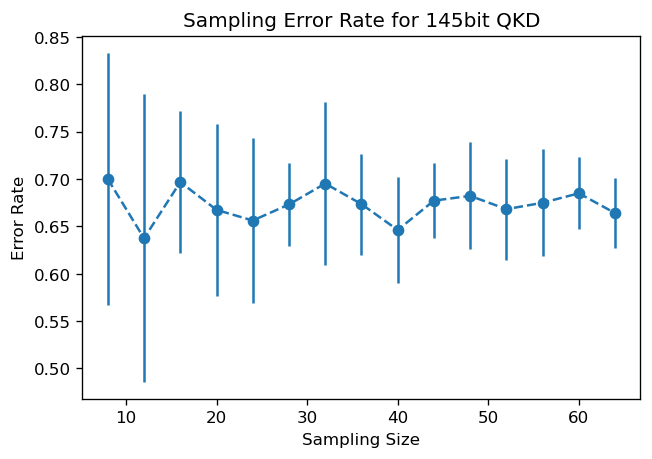
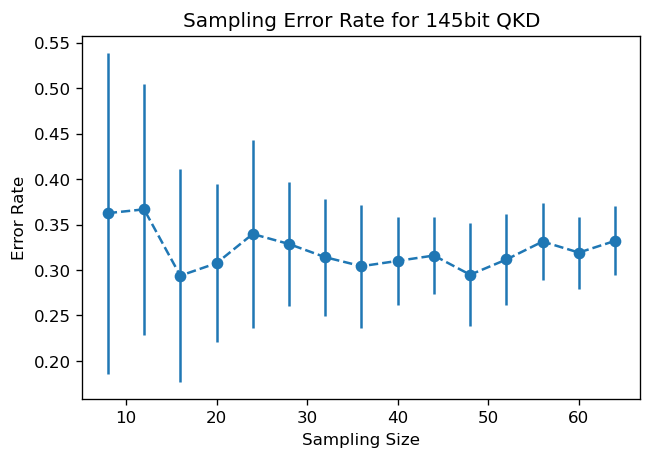
update

diff --git a/report3/report3.tex b/report3/report3.tex
@@ -120,7 +120,7 @@ it's not related with key length or sampling size.
 
 The average result we obtained is 
 \[
-\delta=(0.67774\pm 0.02140)    
+\delta=(0.32463\pm 0.02097)    
 \]
 \begin{figure}
     \centering
